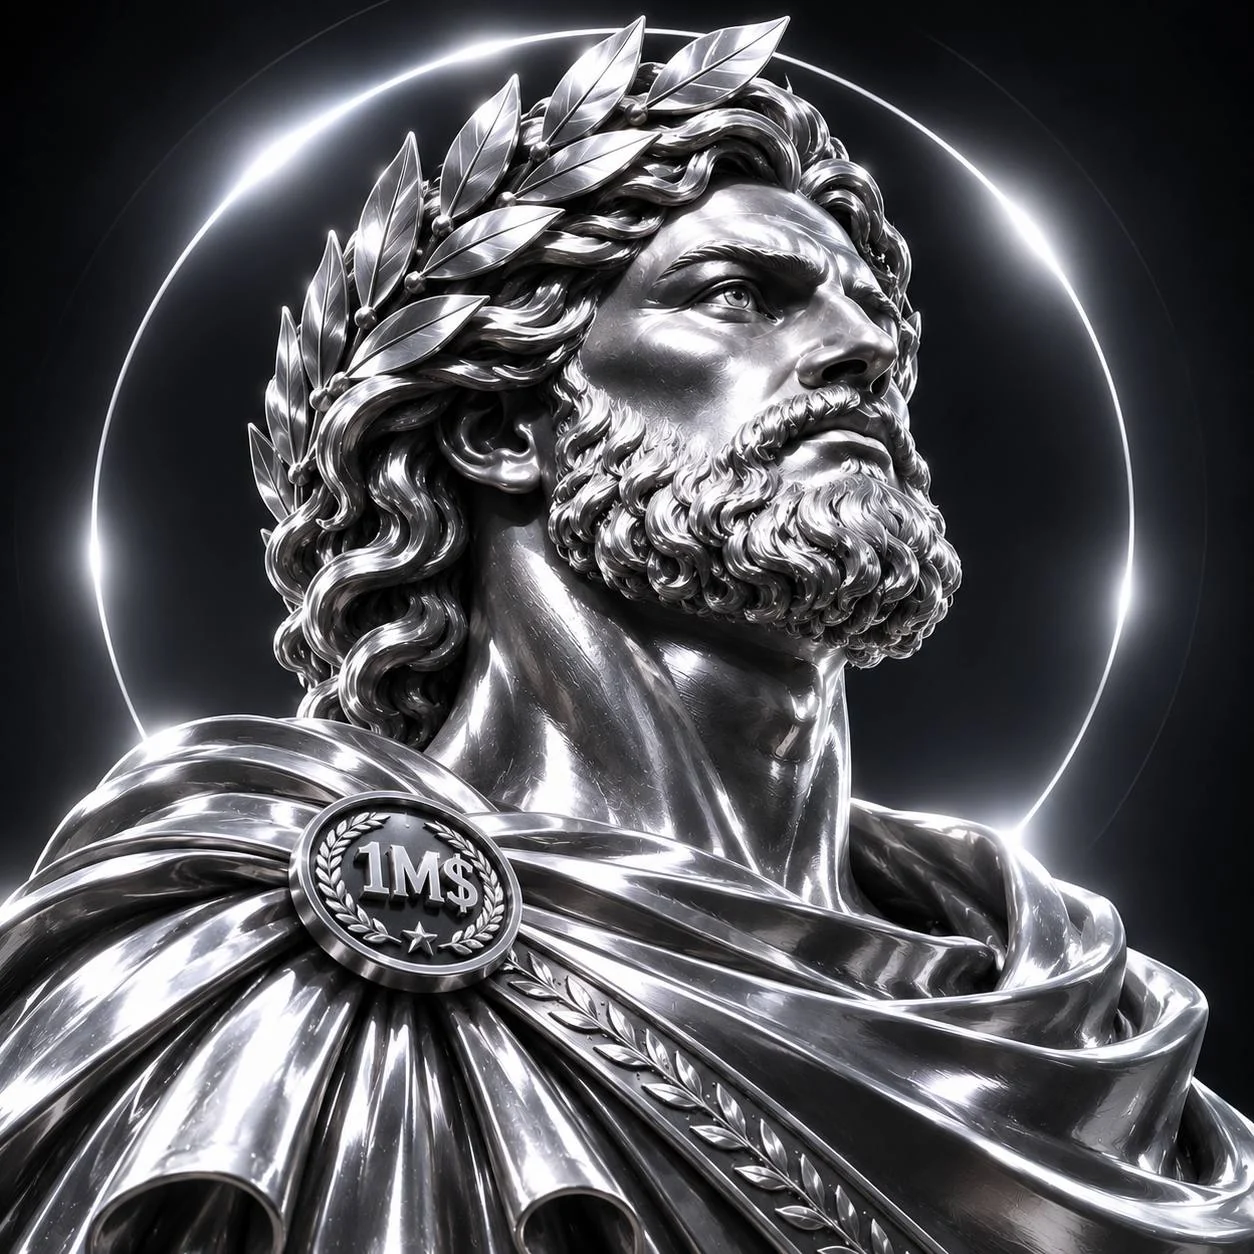
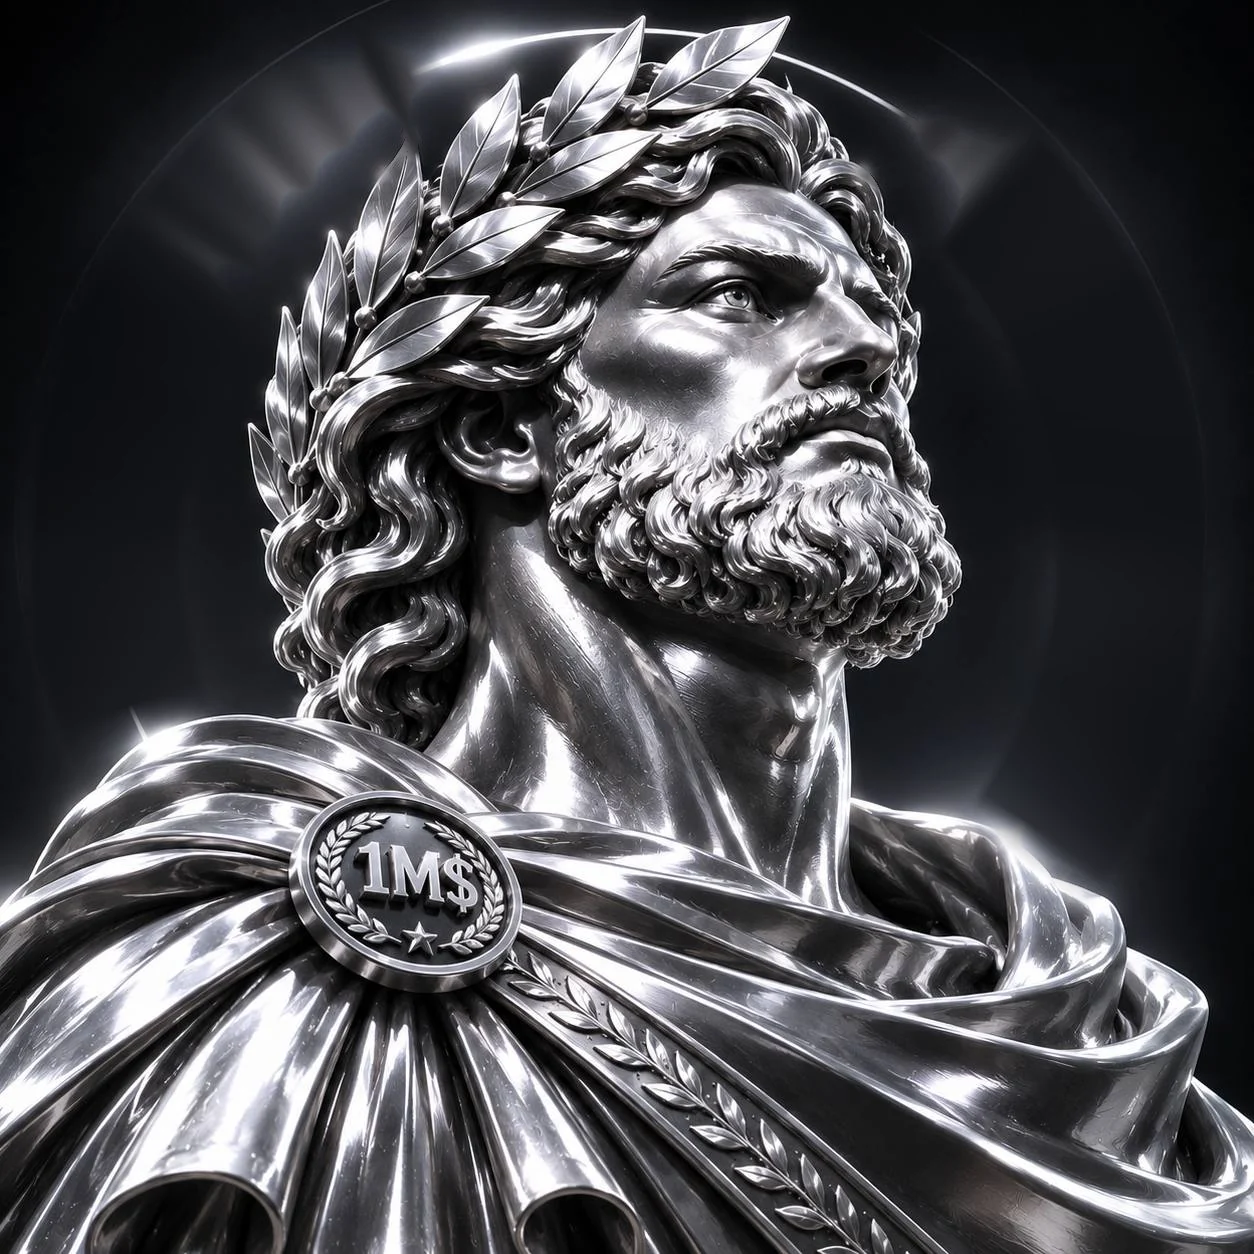
Hero: remove halo ring from statue image
The web copy of the statue now has the halo ring painted out along the
arcs that cross open background; the statue itself is untouched. The
masks that previously hid the ring are relaxed. Original asset unchanged.

Claude-Session: https://claude.ai/code/session_019ZBaW6Qs8RPkVv43DLFxfF

Changed region(s): [[0.7153, 0.0933, 0.9641, 0.6842], [0.0311, 0.0311, 0.3421, 0.5909], [0.6842, 0.1244, 0.7153, 0.1555]]

diff --git a/app/globals.css b/app/globals.css
@@ -270,15 +270,8 @@ select.field { appearance: none; background-image: linear-gradient(45deg, transp
   -webkit-mask-image: linear-gradient(90deg, transparent 0%, #000 20%, #000 100%);
   mask-image: linear-gradient(90deg, transparent 0%, #000 20%, #000 100%);
 }
-.statue-crop {
-  -webkit-mask-image: radial-gradient(ellipse 34% 36% at 60% 33%, #000 72%, transparent 100%), linear-gradient(to top, #000 0%, #000 44%, transparent 60%);
-  mask-image: radial-gradient(ellipse 34% 36% at 60% 33%, #000 72%, transparent 100%), linear-gradient(to top, #000 0%, #000 44%, transparent 60%);
-}
-.art-stage {
-  background:
-    linear-gradient(118deg, transparent 0 58%, rgba(170,176,184,.10) 58% 64%, transparent 64%),
-    linear-gradient(118deg, transparent 0 80%, rgba(170,176,184,.08) 80% 100%);
-}
+.statue-crop { -webkit-mask-image: linear-gradient(180deg, transparent 0%, #000 9%); mask-image: linear-gradient(180deg, transparent 0%, #000 9%); }
+.art-stage { background: none; }
 @media (max-width: 960px) {
   .art-stage { background: none; }
   .statue-wrap {
